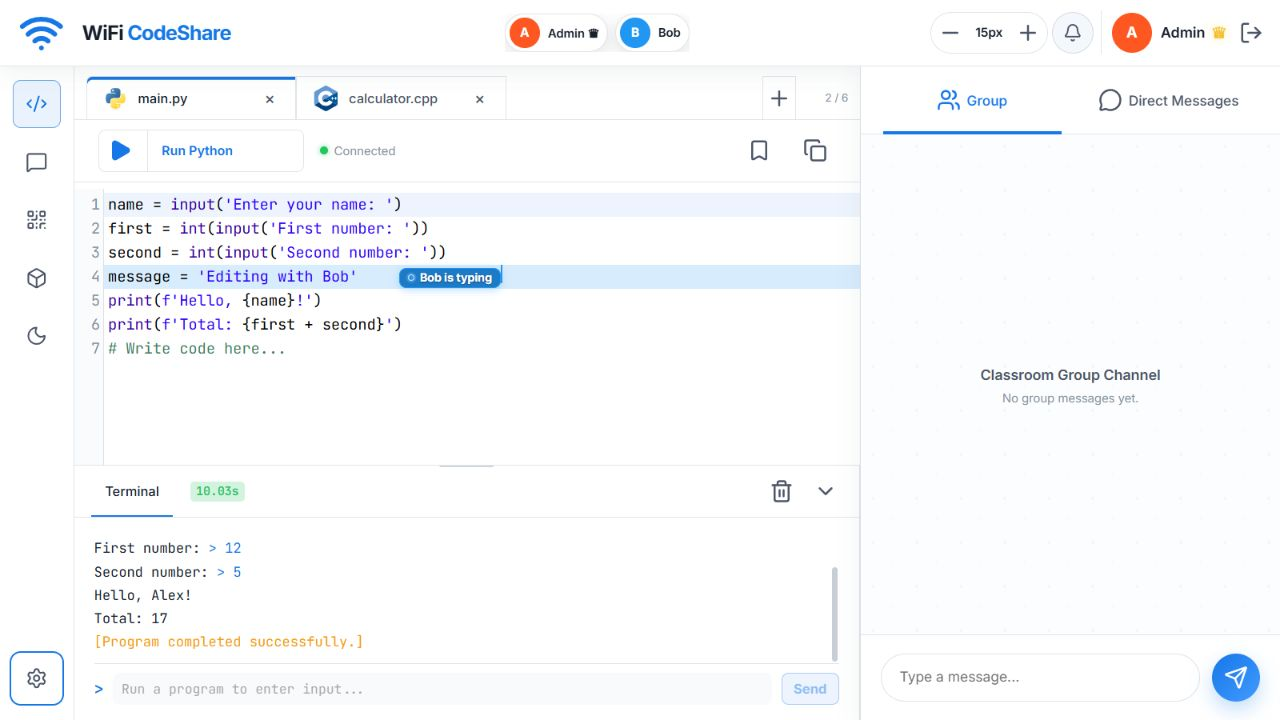
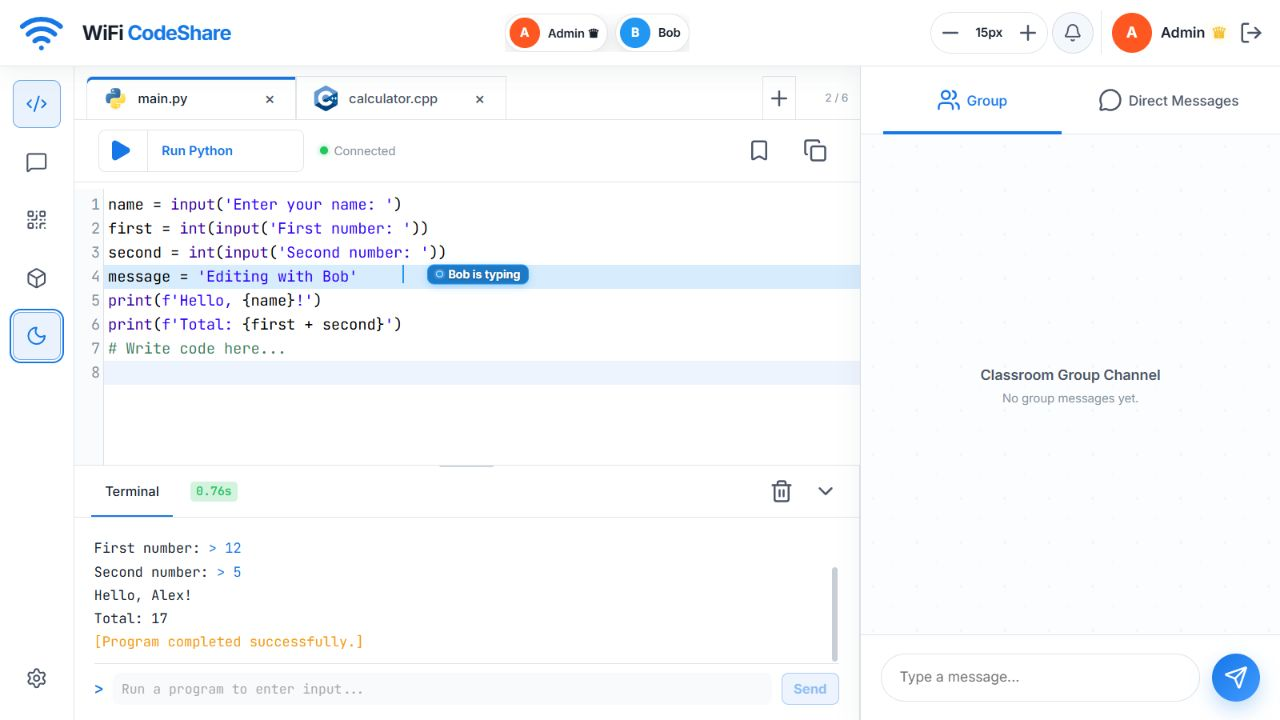
fix: bind typing labels after remote carets

diff --git a/static/app.js b/static/app.js
@@ -1778,30 +1778,36 @@ function safeColor(value) {
 }
 
 function renderRemoteCursor(data) {
-  removeRemoteCursor(data.id);
+  const cursorId = String(data.id || 'unknown');
+  removeRemoteCursor(cursorId);
   if (!data.cursor || !data.username || data.file_id !== state.activeFileId) return;
   const cursor = document.createElement('span');
   cursor.className = 'remote-cursor';
   cursor.style.borderColor = safeColor(data.color);
 
-  cursor.classList.toggle('is-typing', state.typingUsers.has(data.id));
+  cursor.classList.toggle('is-typing', state.typingUsers.has(cursorId));
 
   const marker = state.editor.setBookmark(data.cursor, {
     widget: cursor,
     insertLeft: true,
   });
-  state.remoteCursors.set(data.id, {
+  state.remoteCursors.set(cursorId, {
     marker,
     element: cursor,
     fileId: data.file_id,
+    position: data.cursor,
   });
+  placeRemoteLineTypingBadge(cursorId);
 }
 
 function removeRemoteCursor(id) {
-  const cursor = state.remoteCursors.get(id);
+  const cursorId = String(id || 'unknown');
+  const cursor = state.remoteCursors.get(cursorId);
   if (cursor) {
+    const indicator = state.lineTypingIndicators.get(cursorId);
+    if (indicator?.badge?.parentElement === cursor.element) indicator.badge.remove();
     cursor.marker.clear();
-    state.remoteCursors.delete(id);
+    state.remoteCursors.delete(cursorId);
   }
 }
 
@@ -1810,9 +1816,10 @@ function clearAllRemoteCursors() {
 }
 
 function updateTypingState(data) {
-  if (data.is_typing) state.typingUsers.add(data.id);
-  else state.typingUsers.delete(data.id);
-  const remote = state.remoteCursors.get(data.id);
+  const participantId = String(data.id || 'unknown');
+  if (data.is_typing) state.typingUsers.add(participantId);
+  else state.typingUsers.delete(participantId);
+  const remote = state.remoteCursors.get(participantId);
   remote?.element.classList.toggle('is-typing', Boolean(data.is_typing));
 }
 
@@ -1852,21 +1859,49 @@ function updateRemoteLineHighlight(data) {
   label.textContent = `${data.username}${data.role === 'admin' ? ' ♛' : ''} is typing`;
   badge.append(dot, label);
 
-  const marker = state.editor.setBookmark(
-    { line: requestedLine, ch: (state.editor.getLine(requestedLine) || '').length },
-    { widget: badge, insertLeft: false },
-  );
-  const timeout = setTimeout(
+  const indicator = {
+    badge,
+    className,
+    fileId: data.file_id,
+    line: requestedLine,
+    lineHandle,
+    marker: null,
+    timeout: null,
+  };
+  state.lineTypingIndicators.set(indicatorId, indicator);
+  placeRemoteLineTypingBadge(indicatorId);
+  indicator.timeout = setTimeout(
     () => removeRemoteLineTypingIndicator(indicatorId),
     1700,
   );
-  state.lineTypingIndicators.set(indicatorId, {
-    className,
-    fileId: data.file_id,
-    lineHandle,
-    marker,
-    timeout,
-  });
+}
+
+function placeRemoteLineTypingBadge(id) {
+  const indicatorId = String(id || 'unknown');
+  const indicator = state.lineTypingIndicators.get(indicatorId);
+  if (!indicator) return;
+
+  indicator.marker?.clear();
+  indicator.marker = null;
+  indicator.badge.remove();
+
+  const remoteCursor = state.remoteCursors.get(indicatorId);
+  if (
+    remoteCursor
+    && remoteCursor.fileId === indicator.fileId
+    && remoteCursor.position?.line === indicator.line
+  ) {
+    remoteCursor.element.appendChild(indicator.badge);
+    return;
+  }
+
+  indicator.marker = state.editor.setBookmark(
+    {
+      line: indicator.line,
+      ch: (state.editor.getLine(indicator.line) || '').length,
+    },
+    { widget: indicator.badge, insertLeft: false },
+  );
 }
 
 function removeRemoteLineTypingIndicator(id) {
@@ -1875,6 +1910,7 @@ function removeRemoteLineTypingIndicator(id) {
   if (!indicator) return;
   clearTimeout(indicator.timeout);
   indicator.marker?.clear();
+  indicator.badge?.remove();
   if (indicator.fileId === state.activeFileId && indicator.lineHandle) {
     state.editor.removeLineClass(indicator.lineHandle, 'background', indicator.className);
   }

diff --git a/static/index.html b/static/index.html
@@ -21,7 +21,7 @@
   <script src="https://cdnjs.cloudflare.com/ajax/libs/codemirror/5.65.13/addon/edit/matchbrackets.min.js"></script>
   <script src="https://cdnjs.cloudflare.com/ajax/libs/codemirror/5.65.13/addon/selection/active-line.min.js"></script>
 
-  <link rel="stylesheet" href="/static/style.css?v=4.2.1-line-typing-labels-2" />
+  <link rel="stylesheet" href="/static/style.css?v=4.2.1-line-typing-labels-3" />
 </head>
 <body>
   <div id="toastContainer" class="toast-container" aria-live="polite"></div>
@@ -531,6 +531,6 @@
     </div>
   </dialog>
 
-  <script src="/static/app.js?v=4.2.1-line-typing-labels-2"></script>
+  <script src="/static/app.js?v=4.2.1-line-typing-labels-3"></script>
 </body>
 </html>

diff --git a/static/style.css b/static/style.css
@@ -394,10 +394,21 @@ body {
 
 /* CodeMirror remote presence overlays */
 .remote-cursor {
+  display: inline-block;
   position: absolute;
+  width: 0;
   border-left: 2px solid;
   height: 1.2em;
+  overflow: visible;
   z-index: 100;
+}
+
+.remote-cursor > .line-typing-badge {
+  position: absolute;
+  top: 50%;
+  left: 3ch;
+  margin-left: 0;
+  transform: translateY(-50%);
 }
 /* Output Drawer */
 .output-drawer {

diff --git a/test_app.py b/test_app.py
@@ -915,6 +915,7 @@ class LiveEditorTestCase(unittest.TestCase):
         self.assertIn("line-typing-badge-dot", javascript)
         self.assertIn("`${data.username}${data.role === 'admin' ? ' ♛' : ''} is typing`", javascript)
         self.assertIn("removeRemoteLineTypingIndicator", javascript)
+        self.assertIn("placeRemoteLineTypingBadge", javascript)
         self.assertIn("clearAllRemoteLineTypingIndicators", javascript)
         self.assertIn("removeInactiveLineTypingIndicators", javascript)
         self.assertIn("stopLocalTyping", javascript)
@@ -922,7 +923,9 @@ class LiveEditorTestCase(unittest.TestCase):
         self.assertIn("--typing-color", stylesheet)
         self.assertIn(".line-typing-badge-label", stylesheet)
         self.assertIn("margin-left: 3ch;", stylesheet)
-        self.assertIn("4.2.1-line-typing-labels-2", html)
+        self.assertIn(".remote-cursor > .line-typing-badge", stylesheet)
+        self.assertIn("left: 3ch;", stylesheet)
+        self.assertIn("4.2.1-line-typing-labels-3", html)
 
 
 if __name__ == "__main__":

diff --git a/CHANGELOG.md b/CHANGELOG.md
@@ -14,8 +14,10 @@ typing highlight without restoring the old floating cursor-name cloud.
   remote participant is editing.
 - Positioned the label three character spaces after the participant's caret so
   the caret stays clearly visible before the name.
-- Kept each label inline after the line's code so it does not cover the source
-  text, with long names shortened visually when space is limited.
+- Combined the caret and typing label into one remote-cursor element so
+  CodeMirror cannot place the name before the caret.
+- Kept each label compact and non-interactive, with long names shortened
+  visually when space is limited.
 - Preserved the subtle full-line colour highlight and name-free remote caret.
 - Ensured one current typing label per participant and removed stale labels when
   that participant stops, changes lines or files, disconnects, or becomes
